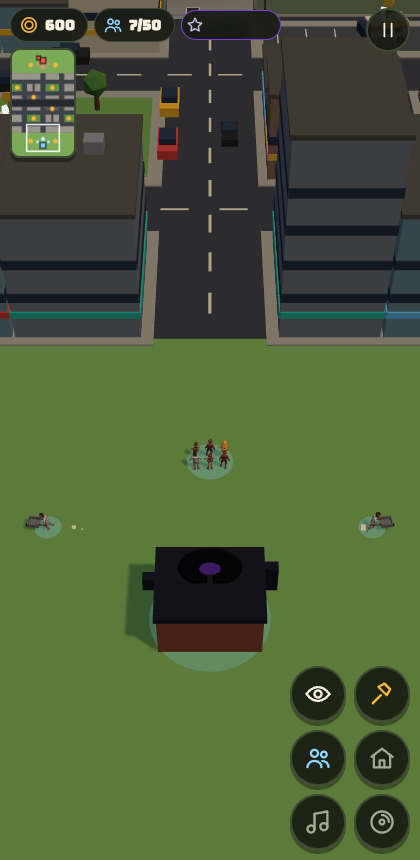
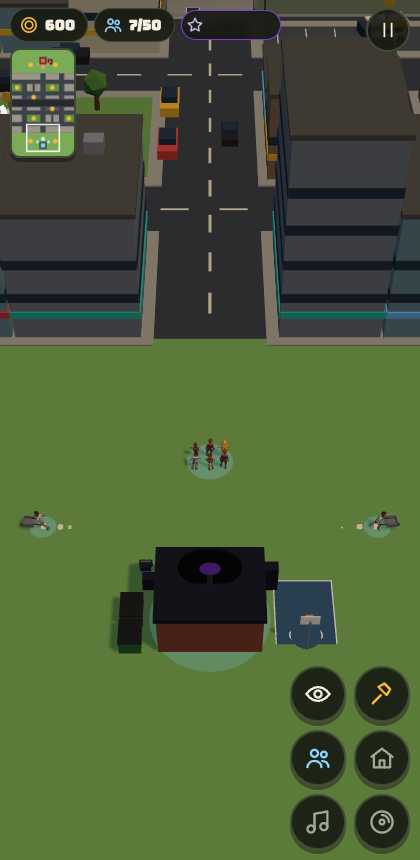
B79: Street Crew base dressing round the Record Shop: a half basketball court (lines, key, hoop), a boombox on a milk crate whose speakers thump with the rest, two graffiti-tagged dumpsters and a bench
Claude-Session: https://claude.ai/code/session_01FXzpagnksiDmMAqP3MTiXJ

diff --git a/src/render/models.js b/src/render/models.js
@@ -2,7 +2,7 @@
 // SWAP POINT FOR REAL ART: replace makeMember / bldMesh / nodeMesh bodies with GLB clones.
 // Keep the same contract: return a THREE.Group, feet at y=0, facing +z, roughly to the scale below
 // (humans ~1.6 m, monster truck ~3 m long). userData.legs (optional) = [leftLeg, rightLeg] for walk swing.
-import { THREE, box, cyl, mat } from './scene.js?v=78';
+import { THREE, box, cyl, mat } from './scene.js?v=79';
 
 export const FC = {
   bw: { main: 0xe8792b, dark: 0x5a3a22, skin: 0xf2c9a0, alt: 0x3d5a80, hair: 0x4a2e1a },
@@ -215,6 +215,14 @@ export function bldMesh(kind, f) {
       tag(1.6, 0.8, -2, 2.9, 2.32, 0xff5ad1); tag(1.2, 0.6, 2.1, 0.5, 2.32, C.alt);
       const disc = cyl(1.8, 1.8, 0.12, 0x111111, 0, 5.2, 0, 24); disc.rotation.x = Math.PI / 2; disc.add(cyl(0.6, 0.6, 0.14, C.main, 0, 0, 0, 16)); mesh.add(disc, box(0.3, 1.6, 0.3, 0x333333, 0, 3.9, 0)); mesh.userData.disc = disc;
       speaker(0.9, 1.1, -3.6, 0.55, 2.2); speaker(0.9, 1.1, -3.6, 1.65, 2.2); speaker(0.9, 1.1, 3.6, 0.55, 2.2);
+      // Block dressing: a half basketball court, a parked boombox on a milk crate, tagged dumpsters and a bench.
+      mesh.add(box(3.6, 0.03, 4.4, 0x3a5a7a, -5.6, 0.03, 0.4), box(3.6, 0.04, 0.08, 0xffffff, -5.6, 0.05, 2.55), box(0.08, 0.04, 4.4, 0xffffff, -3.84, 0.05, 0.4), box(0.08, 0.04, 4.4, 0xffffff, -7.36, 0.05, 0.4));
+      const key = cyl(1, 1, 0.04, 0xffffff, -5.6, 0.04, -1.2, 20); key.scale.z = 0.6; mesh.add(key, cyl(0.9, 0.9, 0.05, 0x3a5a7a, -5.6, 0.05, -1.2, 20));
+      mesh.add(box(0.12, 3, 0.12, 0x888888, -5.6, 1.5, -2.1), box(1.1, 0.75, 0.06, 0xffffff, -5.6, 2.9, -1.95), box(0.45, 0.04, 0.45, 0xf28c28, -5.6, 2.62, -1.65));
+      mesh.add(box(0.6, 0.45, 0.6, 0x3a6fd6, 3.9, 0.22, 3.4), box(0.8, 0.42, 0.26, 0x2a2a2a, 3.9, 0.66, 3.4), box(0.6, 0.04, 0.04, 0x999999, 3.9, 0.92, 3.4));
+      speaker(0.36, 0.3, 3.75, 0.66, 3.28); speaker(0.36, 0.3, 4.05, 0.66, 3.28);
+      for (const [x, z, c] of [[4.6, -1.6, 0x2f6b3a], [4.6, 0.2, 0x3a3a46]]) { mesh.add(box(1.3, 1.1, 1.6, c, x, 0.55, z), box(1.35, 0.08, 1.65, 0x222222, x, 1.14, z)); tag(0.04, 0.6, x + 0.67, 0.6, z, [0xff5ad1, C.alt][z > 0 ? 1 : 0]); }
+      mesh.add(box(1.8, 0.1, 0.45, 0x8a6a3e, -1.6, 0.45, 3.4), box(0.1, 0.45, 0.4, 0x444444, -2.3, 0.22, 3.4), box(0.1, 0.45, 0.4, 0x444444, -0.9, 0.22, 3.4));
     } else if (kind === 'depot') { // Sneaker Store: white box, a giant sneaker on the roof
       mesh.add(box(2.8, 1.9, 2.4, 0xf4f4f4, 0, 0.95), box(3, 0.28, 2.6, C.main, 0, 2.04), box(1.8, 0.9, 0.08, 0x9fd6ff, 0, 1, 1.22));
       mesh.add(box(0.9, 0.5, 2, 0xffffff, 0, 2.5, 0), box(0.95, 0.15, 2.05, C.main, 0, 2.25, 0), box(0.8, 0.6, 0.8, C.alt, 0, 2.9, -0.5));

diff --git a/src/main.js b/src/main.js
@@ -1,22 +1,22 @@
 // Entry point: wires sim + render + input + UI and runs the fixed-step loop.
-import { renderer, scene, camera, followSun, THREE } from './render/scene.js?v=78';
-import { buildWorld, updateWorld } from './render/world.js?v=78';
-import { syncRender, clearRender, bump } from './render/sync.js?v=78';
-import { handleEvents, updateFx, clearFx } from './fx/fx.js?v=78';
-import { newSim, getSim, step } from './sim/sim.js?v=78';
-import { TICK } from './config/factions.js?v=78';
-import { CAM, applyCam, resetCam, onResize } from './camera/camera.js?v=78';
-import { initInput, lockPageZoom } from './input/input.js?v=78';
-import { refreshHUD, resetHUD, updatePlaceBar } from './ui/hud.js?v=78';
-import { resetUI } from './ui/state.js?v=78';
-import { fillIcons, svg } from './ui/icons.js?v=78';
-import { noteAlerts, updateAlert, clearAlert } from './ui/alert.js?v=78';
-import { updateMinimap } from './ui/minimap.js?v=78';
-import { isMuted, setMuted } from './fx/sfx.js?v=78';
-import { loadChars } from './render/chars.js?v=78';
-import { FC } from './render/models.js?v=78';
+import { renderer, scene, camera, followSun, THREE } from './render/scene.js?v=79';
+import { buildWorld, updateWorld } from './render/world.js?v=79';
+import { syncRender, clearRender, bump } from './render/sync.js?v=79';
+import { handleEvents, updateFx, clearFx } from './fx/fx.js?v=79';
+import { newSim, getSim, step } from './sim/sim.js?v=79';
+import { TICK } from './config/factions.js?v=79';
+import { CAM, applyCam, resetCam, onResize } from './camera/camera.js?v=79';
+import { initInput, lockPageZoom } from './input/input.js?v=79';
+import { refreshHUD, resetHUD, updatePlaceBar } from './ui/hud.js?v=79';
+import { resetUI } from './ui/state.js?v=79';
+import { fillIcons, svg } from './ui/icons.js?v=79';
+import { noteAlerts, updateAlert, clearAlert } from './ui/alert.js?v=79';
+import { updateMinimap } from './ui/minimap.js?v=79';
+import { isMuted, setMuted } from './fx/sfx.js?v=79';
+import { loadChars } from './render/chars.js?v=79';
+import { FC } from './render/models.js?v=79';
 
-export const BUILD = 78; // written by `npm run bump`
+export const BUILD = 79; // written by `npm run bump`
 lockPageZoom();
 fillIcons();
 buildWorld();

diff --git a/index.html b/index.html
@@ -6,7 +6,7 @@
 <meta name="viewport" content="width=device-width,initial-scale=1,maximum-scale=1,user-scalable=no,viewport-fit=cover">
 <link rel="preconnect" href="https://fonts.googleapis.com">
 <link rel="stylesheet" href="https://fonts.googleapis.com/css2?family=Bungee&family=Lilita+One&display=swap">
-<link rel="stylesheet" href="./src/ui/style.css?v=78">
+<link rel="stylesheet" href="./src/ui/style.css?v=79">
 <!-- No build step needed: GitHub Pages serves this file straight from main, so bare 'three' imports resolve here. -->
 <script type="importmap">
 { "imports": { "three": "./vendor/three/three.module.min.js", "three/examples/jsm/": "./vendor/three/jsm/" } }
@@ -33,7 +33,7 @@
 <div id="box"></div>
 <div id="holdRing" hidden></div>
 <div id="menu" class="overlay">
-  <h1>Culture <em>Wars</em><span>GREYBOX 04 · <b id="build">B78</b></span></h1>
+  <h1>Culture <em>Wars</em><span>GREYBOX 04 · <b id="build">B79</b></span></h1>
   <div class="diff" id="diff"><button type="button" data-d="0" aria-label="Easy"><span class="ic" data-i="star"></span></button><button type="button" data-d="1" class="on" aria-label="Normal"><span class="ic" data-i="star"></span><span class="ic" data-i="star"></span></button><button type="button" data-d="2" aria-label="Hard"><span class="ic" data-i="star"></span><span class="ic" data-i="star"></span><span class="ic" data-i="star"></span></button></div>
   <div class="picks">
     <button class="pick" data-f="bw" type="button"><span class="ic" data-i="truck"></span>Backwoods<small>FEWER · TOUGHER</small></button>
@@ -61,6 +61,6 @@
   setTimeout(function () { if (!window.__cwBooted) show('Game script did not start (old cached file? wait a few minutes and reload)'); }, 8000);
 })();
 </script>
-<script type="module" src="./src/main.js?v=78" onerror="__cwLoadFail()"></script>
+<script type="module" src="./src/main.js?v=79" onerror="__cwLoadFail()"></script>
 </body>
 </html>

diff --git a/src/render/sync.js b/src/render/sync.js
@@ -1,16 +1,16 @@
 // Mirrors sim state into the scene every frame. Reads the sim, never writes to it.
-import { THREE, scene, camera, mat, box, basic, ringMesh, disposeObj, casts } from './scene.js?v=78';
-import { makeMember, bldMesh, nodeMesh, formation, FC } from './models.js?v=78';
-import { makeChar, charsReady, play, CAST } from './chars.js?v=78';
-import { emit } from '../fx/particles.js?v=78';
-import { bark } from '../fx/sfx.js?v=78';
-import { TICK } from '../config/factions.js?v=78';
-import { walkH } from '../map/layout.js?v=78';
-import { NODE_AMOUNT, BLD, BUILD_RADIUS } from '../config/factions.js?v=78';
-import { Q, pl, getSim } from '../sim/sim.js?v=78';
-import { UI } from '../ui/state.js?v=78';
-import { fxConfetti, fxDeath } from '../fx/fx.js?v=78';
-import { lerpAngle } from '../util/math.js?v=78';
+import { THREE, scene, camera, mat, box, basic, ringMesh, disposeObj, casts } from './scene.js?v=79';
+import { makeMember, bldMesh, nodeMesh, formation, FC } from './models.js?v=79';
+import { makeChar, charsReady, play, CAST } from './chars.js?v=79';
+import { emit } from '../fx/particles.js?v=79';
+import { bark } from '../fx/sfx.js?v=79';
+import { TICK } from '../config/factions.js?v=79';
+import { walkH } from '../map/layout.js?v=79';
+import { NODE_AMOUNT, BLD, BUILD_RADIUS } from '../config/factions.js?v=79';
+import { Q, pl, getSim } from '../sim/sim.js?v=79';
+import { UI } from '../ui/state.js?v=79';
+import { fxConfetti, fxDeath } from '../fx/fx.js?v=79';
+import { lerpAngle } from '../util/math.js?v=79';
 // Selection rings take your faction colour, washed toward white so they still pop on any ground.
 const selCol = () => { const S = getSim(), f = S && S.players[0].f; return f ? new THREE.Color(FC[f].main).lerp(new THREE.Color(0xffffff), 0.35).getHex() : 0xffffff; };
 

diff --git a/src/ui/hud.js b/src/ui/hud.js
@@ -1,15 +1,15 @@
 // HUD: resource chips, context panel, command buttons, floating placement confirm, long-press labels.
 // Buttons are described as data ("specs") each refresh; the DOM is rebuilt only when the set of buttons changes.
 // Every action goes through sim.command(); Q.* is used only for instant feedback (shake, dim).
-import { svg } from './icons.js?v=78';
-import { UI, select, selSquads } from './state.js?v=78';
-import { getSim, pl, fac, Q, command, count, cpUsed, cpCap, hqOf } from '../sim/sim.js?v=78';
-import { BLD, BUILD_KINDS, TRAIN_SLOTS, UPG, REQ } from '../config/factions.js?v=78';
-import { CAM, toggleView, focus } from '../camera/camera.js?v=78';
-import { camera } from '../render/scene.js?v=78';
-import { walkH } from '../map/layout.js?v=78';
-import { THREE } from '../render/scene.js?v=78';
-import { showHint } from './hint.js?v=78';
+import { svg } from './icons.js?v=79';
+import { UI, select, selSquads } from './state.js?v=79';
+import { getSim, pl, fac, Q, command, count, cpUsed, cpCap, hqOf } from '../sim/sim.js?v=79';
+import { BLD, BUILD_KINDS, TRAIN_SLOTS, UPG, REQ } from '../config/factions.js?v=79';
+import { CAM, toggleView, focus } from '../camera/camera.js?v=79';
+import { camera } from '../render/scene.js?v=79';
+import { walkH } from '../map/layout.js?v=79';
+import { THREE } from '../render/scene.js?v=79';
+import { showHint } from './hint.js?v=79';
 
 const panelEl = document.getElementById('panel'), cmdEl = document.getElementById('cmd'), queueEl = document.getElementById('queue');
 const placeBar = document.getElementById('placeBar'), tipEl = document.getElementById('tip');

diff --git a/src/input/input.js b/src/input/input.js
@@ -4,13 +4,13 @@
 //   hold then drag  = box select
 //   2 fingers       = pinch zoom + twist to rotate + drag to pan
 //   mouse: right-drag = box select, wheel = zoom; keys WASD/arrows pan, Q/E rotate, V ghost cam, Esc cancel
-import { THREE, camera, canvas } from '../render/scene.js?v=78';
-import { walkH } from '../map/layout.js?v=78';
-import { getSim, command } from '../sim/sim.js?v=78';
-import { UI, select, selSquads } from '../ui/state.js?v=78';
-import { CAM, panBy, clampCam, toggleView, pxPerUnit } from '../camera/camera.js?v=78';
-import { fxMarker } from '../fx/fx.js?v=78';
-import { ack } from '../render/sync.js?v=78';
+import { THREE, camera, canvas } from '../render/scene.js?v=79';
+import { walkH } from '../map/layout.js?v=79';
+import { getSim, command } from '../sim/sim.js?v=79';
+import { UI, select, selSquads } from '../ui/state.js?v=79';
+import { CAM, panBy, clampCam, toggleView, pxPerUnit } from '../camera/camera.js?v=79';
+import { fxMarker } from '../fx/fx.js?v=79';
+import { ack } from '../render/sync.js?v=79';
 
 const ray = new THREE.Raycaster(), ndc = new THREE.Vector2(), tmp = new THREE.Vector3();
 export function groundAt(cx, cy) {

diff --git a/src/fx/fx.js b/src/fx/fx.js
@@ -1,12 +1,12 @@
 // Visual effects. Reads sim events, never changes the sim.
 // To add an effect for a new mechanic: emit S.events.push({k:'myThing', ...}) in the sim,
 // then add a case in handleEvents below.
-import { THREE, scene, mat, cyl, basic, disposeObj } from '../render/scene.js?v=78';
-import { walkH } from '../map/layout.js?v=78';
-import { sfx } from './sfx.js?v=78';
-import { shake, CAM } from '../camera/camera.js?v=78';
-import { FC } from '../render/models.js?v=78';
-import { emit, updateParticles, clearParticles, burstHit, burstShot, burstCoins } from './particles.js?v=78';
+import { THREE, scene, mat, cyl, basic, disposeObj } from '../render/scene.js?v=79';
+import { walkH } from '../map/layout.js?v=79';
+import { sfx } from './sfx.js?v=79';
+import { shake, CAM } from '../camera/camera.js?v=79';
+import { FC } from '../render/models.js?v=79';
+import { emit, updateParticles, clearParticles, burstHit, burstShot, burstCoins } from './particles.js?v=79';
 
 const fx = [];
 function addFx(obj, life, upd) { scene.add(obj); fx.push({ obj, life, t: 0, upd }); }

diff --git a/src/render/world.js b/src/render/world.js
@@ -1,9 +1,9 @@
 // Static city: streets, sidewalks, buildings, parks, freeway trench + overpasses, ambient traffic.
 // Built once from map/layout.js. Mostly InstancedMesh so it stays cheap on phones.
-import { THREE, scene, mat, box } from './scene.js?v=78';
-import { MAP, BLOCKS, TREES, PARKED, TRENCH, OVERPASSES, AVENUES, CROSS_STREETS, HOME_Z, inRect, walkH } from '../map/layout.js?v=78';
-import { hash } from '../util/math.js?v=78';
-import { emit } from '../fx/particles.js?v=78';
+import { THREE, scene, mat, box } from './scene.js?v=79';
+import { MAP, BLOCKS, TREES, PARKED, TRENCH, OVERPASSES, AVENUES, CROSS_STREETS, HOME_Z, inRect, walkH } from '../map/layout.js?v=79';
+import { hash } from '../util/math.js?v=79';
+import { emit } from '../fx/particles.js?v=79';
 
 const COL = {
   asphalt: 0x3d4148, sidewalk: 0xa8a49a, grass: 0x6f9e50, lawn: 0x7cab58, lot: 0x4b4f56, stripe: 0xe8e2c8,

diff --git a/src/sim/sim.js b/src/sim/sim.js
@@ -9,11 +9,11 @@
 import {
   TICK, START_CASH, BUILD_RADIUS, MAX_WORKERS, NODE_AMOUNT, GATHER_T, CARRY, BASE_INCOME, DEPOT_INCOME,
   COUNTER, REQ, UPG, UPT, BLD, FACTIONS,
-} from '../config/factions.js?v=78';
-import { MAP, NODES, BASES, walkH } from '../map/layout.js?v=78';
-import { markCircle, isBlocked, lineClear, nearestFree, findPath, blocked, cellOf, cellCenter, inGrid } from '../map/grid.js?v=78';
-import { mulberry32 } from '../util/math.js?v=78';
-import { aiStep } from './ai.js?v=78';
+} from '../config/factions.js?v=79';
+import { MAP, NODES, BASES, walkH } from '../map/layout.js?v=79';
+import { markCircle, isBlocked, lineClear, nearestFree, findPath, blocked, cellOf, cellCenter, inGrid } from '../map/grid.js?v=79';
+import { mulberry32 } from '../util/math.js?v=79';
+import { aiStep } from './ai.js?v=79';
 
 let S = null;
 export const getSim = () => S;

diff --git a/src/ui/minimap.js b/src/ui/minimap.js
@@ -1,8 +1,8 @@
 // Minimap, top-left under the resource chips. Fixed orientation: your base at the bottom (+z), enemy at the top.
 // Tap or drag on it to move the camera there. Static city is drawn once; units/buildings redraw ~10x a second.
-import { MAP, BLOCKS, TRENCH } from '../map/layout.js?v=78';
-import { CAM, focus } from '../camera/camera.js?v=78';
-import { getSim } from '../sim/sim.js?v=78';
+import { MAP, BLOCKS, TRENCH } from '../map/layout.js?v=79';
+import { CAM, focus } from '../camera/camera.js?v=79';
+import { getSim } from '../sim/sim.js?v=79';
 
 const cv = document.getElementById('mini'), ctx = cv.getContext('2d');
 const bg = document.createElement('canvas'), bctx = bg.getContext('2d');

diff --git a/src/ui/alert.js b/src/ui/alert.js
@@ -1,9 +1,9 @@
 // Under-attack alert: when something of yours is hit somewhere the camera is not looking, a red arrow pulses on
 // the screen edge pointing at it. Tap the arrow to fly there. Newest fight wins; it fades 5 s after the last hit.
-import { THREE, camera } from '../render/scene.js?v=78';
-import { walkH } from '../map/layout.js?v=78';
-import { focus } from '../camera/camera.js?v=78';
-import { svg } from './icons.js?v=78';
+import { THREE, camera } from '../render/scene.js?v=79';
+import { walkH } from '../map/layout.js?v=79';
+import { focus } from '../camera/camera.js?v=79';
+import { svg } from './icons.js?v=79';
 
 const el = document.getElementById('alert');
 el.innerHTML = svg('up');

diff --git a/src/render/chars.js b/src/render/chars.js
@@ -2,7 +2,7 @@
 // clips drives all of them: the clips come from three DONOR files and are retargeted onto each rig by bone name.
 // Nothing here is required: until the files load (or if they fail, e.g. the single-file artifact build) the
 // box placeholders in models.js are used, and sync.js swaps squads over once this reports ready.
-import { THREE } from './scene.js?v=78';
+import { THREE } from './scene.js?v=79';
 import { GLTFLoader } from 'three/examples/jsm/loaders/GLTFLoader.js';
 import { DRACOLoader } from 'three/examples/jsm/loaders/DRACOLoader.js';
 import { clone as skClone } from 'three/examples/jsm/utils/SkeletonUtils.js';
